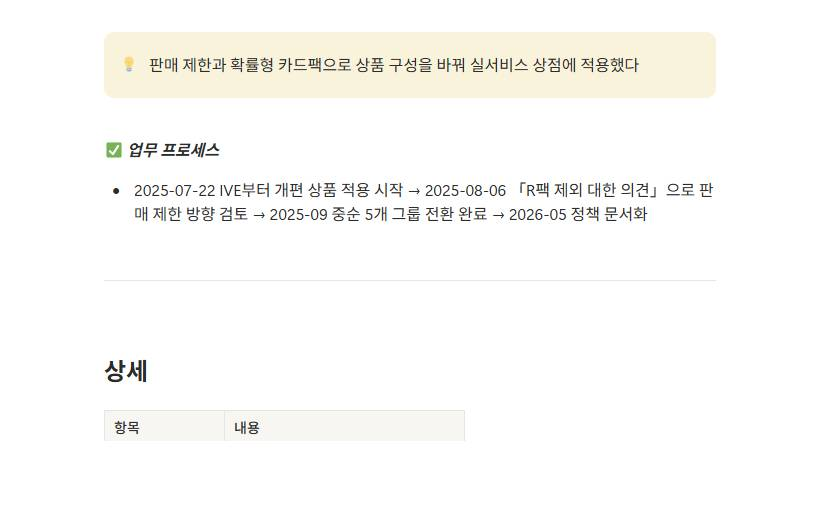
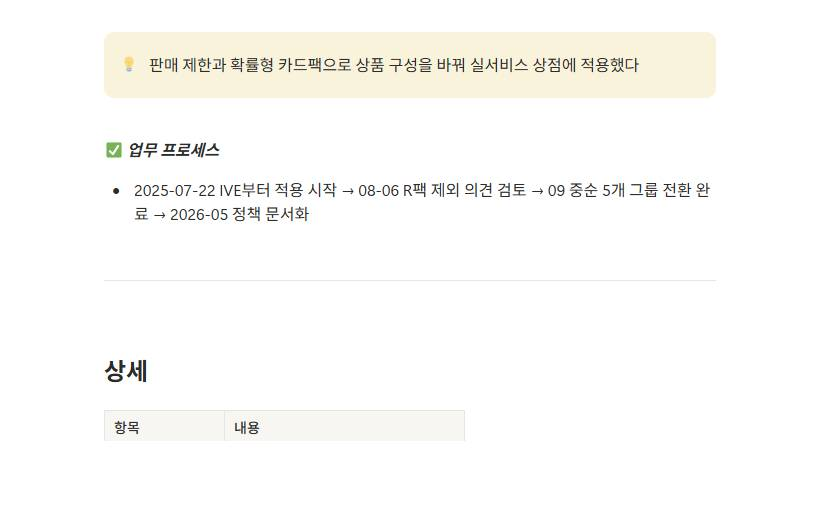
WO-22 EN R팩 근거 시점 동기화·요약 압축·숫자 패널 줄바꿈 (Codex R9-01~04)
- EN R팩 근거 과정을 KO와 같은 순서로. 'Rolled out 07–09 2025 → R pack reviewed after'는
  적용이 끝난 뒤에 검토한 것처럼 읽혔다 — Applied 2025-07-22 (IVE) → cap reviewed 08-06 →
  5 groups by mid-Sep → documented 2026-05 (88자, 카드 clip 90 안)
- EN R팩 요약을 적용 대상부터. 'Changed the lineup …, applied in the live store'는 1440
  카드에서 'applied in…'이 잘려 어디에 적용했는지가 사라졌다 —
  'Live store lineup switched to a purchase cap and a probability card pack' (72자, clip 80 안)
- Notion 원천을 줄인 뒤 근거 32장 재빌드. R팩 KO 과정 111자 → 79자
  (2025-07-22 IVE부터 적용 시작 → 08-06 R팩 제외 의견 검토 → 09 중순 5개 그룹 전환 완료 →
  2026-05 정책 문서화). 1회차는 공개 페이지 캐시로 옛 문장이 와서 3분 뒤 재실행
- 숫자 패널 마지막 줄의 수와 낱말을 nbsp로 묶었다. 390에서 '8'·'22'가 홀로 줄에 남았다 —
  EN 'Projects — / 8 published, / 22 operated', KO '(퍼블리싱 8종, / 직접서비스 22종)'.
  패널 구조·글자 크기는 그대로다

검증: pdf-verify KO/EN 각 7쪽 · 링크 주석 KO 17 · EN 18 · 금지어 0.
캡처 loop/shots19 재촬영(카운터 19/10/30, 콘솔 0) — en/ko-390 하단 패널·1440 근거 카드 육안 확인

Claude-Session: https://claude.ai/code/session_013HWjXfR9TvfvgFXcUym5cc

Changed region(s): [[0.1524, 0.3438, 0.8841, 0.4375]]

diff --git a/site/index.html b/site/index.html
@@ -1289,7 +1289,7 @@ html.is-modal{overflow:hidden;padding-right:var(--sbw,0px)}
         </li>
         <li data-reveal style="--rd:270ms;--ry:20px">
           <p class="stat-n" data-i18n="개"><span data-count="30">30</span>개</p>
-          <p class="stat-l" data-i18n="직접-참여한-프로젝트-퍼블리싱">직접 참여한 프로젝트 (퍼블리싱 8종, 직접서비스 22종)</p>
+          <p class="stat-l" data-i18n="직접-참여한-프로젝트-퍼블리싱">직접 참여한 프로젝트 (퍼블리싱&nbsp;8종, 직접서비스&nbsp;22종)</p>
         </li>
       </ul>
     </div>

diff --git a/site/en/index.html b/site/en/index.html
@@ -1289,7 +1289,7 @@ html.is-modal{overflow:hidden;padding-right:var(--sbw,0px)}
         </li>
         <li data-reveal style="--rd:270ms;--ry:20px">
           <p class="stat-n"><span data-count="30">30</span></p>
-          <p class="stat-l">Projects — 8 published, 22 operated</p>
+          <p class="stat-l">Projects — 8&nbsp;published, 22&nbsp;operated</p>
         </li>
       </ul>
     </div>
